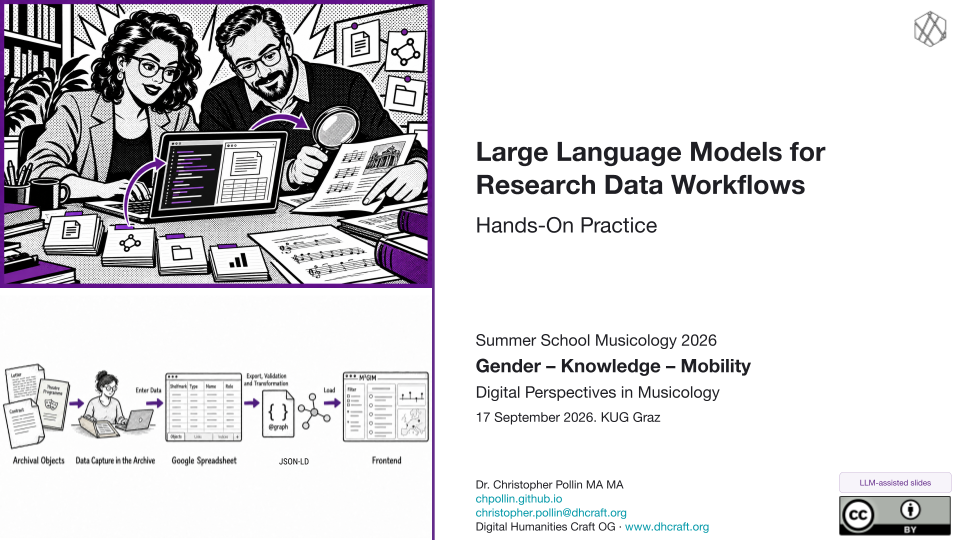
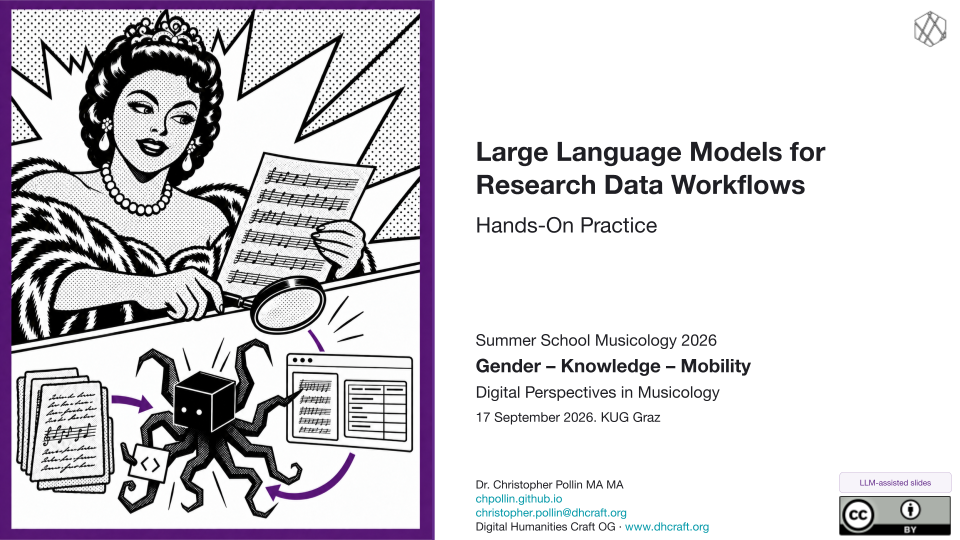
Sessionstruktur vereinfachen und Opernsaengerin als Bildmotiv verwenden

Changed region(s): [[0.0, 0.0, 0.4688, 1.0]]

diff --git a/index.html b/index.html
@@ -25,47 +25,31 @@
 <p class="byline">Christopher Pollin · Digital Humanities Craft · University of Music and Performing Arts Graz · 16 and 17 September 2026</p>
 <div class="actions"><a class="button" href="#sessions">Go to the sessions</a><a class="button secondary" href="#downloads">Downloads</a></div>
 </div>
-<section id="sessions"><h2 class="visually-hidden">Sessions</h2><div class="grid session-cards"><a class="card" href="#session-1"><img src="assets/slides/session-1.png" width="960" height="540" alt="" decoding="async"><span class="number">Session 1</span><span class="small">Wed 16 Sep · 17:00–19:00</span><h3>Making Estate Materials Digitally Accessible</h3><p>Archival sources and research data</p></a><a class="card" href="#session-2"><img src="assets/slides/session-2.png" width="960" height="540" alt="" decoding="async"><span class="number">Session 2</span><span class="small">Thu 17 Sep · 11:30–13:00</span><h3>Large Language Models for Research Data Workflows: An Introduction</h3><p>Models, prompts and context</p></a><a class="card" href="#session-3"><img src="assets/slides/session-3.png" width="960" height="540" alt="" decoding="async"><span class="number">Sessions 3 and 4</span><span class="small">Thu 17 Sep · 15:00–16:30 and 17:00–18:30</span><h3>Large Language Models for Research Data Workflows: Hands-On Practice</h3><p>Promptotyping · guided practice and independent work</p></a></div></section>
+<section id="sessions"><h2 class="visually-hidden">Sessions</h2><div class="grid session-cards"><a class="card" href="#session-1"><img src="assets/slides/session-1.png" width="960" height="540" alt="" decoding="async"><span>Session 1 · Archival sources</span></a><a class="card" href="#session-2"><img src="assets/slides/session-2.png" width="960" height="540" alt="" decoding="async"><span>Session 2 · Large language models</span></a><a class="card" href="#session-3"><img src="assets/slides/session-3.png" width="960" height="540" alt="" decoding="async"><span>Sessions 3 and 4 · Promptotyping</span></a></div></section>
 <section id="session-1" class="session">
-<p class="eyebrow">Session 1 · Wednesday 16 September · 17:00–19:00</p>
-<h2>Making Estate Materials Digitally Accessible</h2>
-<p class="lead">Follow an archival object from digitisation through catalogue description to digital access, using Stefan Zweig Digital.</p>
-
-<div class="actions"><a class="button" href="https://docs.google.com/presentation/d/1vMd2UfI9MydUEN6MMOYT0LZcJ6MYv2DmK9AQbyzJ7xc/preview">Open slides</a><a class="button secondary" href="https://docs.google.com/presentation/d/1vMd2UfI9MydUEN6MMOYT0LZcJ6MYv2DmK9AQbyzJ7xc/export/pdf">Slides PDF</a><a class="button" href="https://docs.google.com/document/d/1DU6UbE4xURFZ3fkPn7MD2loZ2naPysFYX1ypeI0D_Kg/preview">Lecture notes</a><a class="button secondary" href="https://docs.google.com/document/d/1DU6UbE4xURFZ3fkPn7MD2loZ2naPysFYX1ypeI0D_Kg/export?format=pdf">Notes PDF</a></div>
-<details class="slides-embed"><summary>Show the slides on this page</summary><iframe class="embed slides" src="https://docs.google.com/presentation/d/1vMd2UfI9MydUEN6MMOYT0LZcJ6MYv2DmK9AQbyzJ7xc/embed?start=false&amp;loop=false&amp;delayms=3000" title="Session 1 slides" allowfullscreen loading="lazy"></iframe></details>
-<div class="panel"><h3>From XML to IIIF</h3><p>Combine your XML metadata and images, generate a manifest with Python, and inspect the result in Mirador. The viewer also accepts the XML directly.</p><div class="actions"><a class="button" href="tools/iiif-viewer/">Open the IIIF viewer</a><a class="button secondary" href="downloads/xml-iiif-workshop.zip">Download Python + IIIF package</a></div><p class="small">Script, XML template, two synthetic example images and an English guide.</p></div>
-<ul class="resources"><li><a href="downloads/pdf-to-images.zip">PDF to images · Python exercise package</a><br><span class="small">Script, two-page source PDF and instructions.</span></li><li><a href="downloads/shared/schulnachricht.jpg">Schulnachricht · source image</a></li></ul>
+<h2>Session 1 · Archival sources</h2>
+<p class="material-links"><a href="https://docs.google.com/presentation/d/1vMd2UfI9MydUEN6MMOYT0LZcJ6MYv2DmK9AQbyzJ7xc/preview">Slides</a> · <a href="https://docs.google.com/presentation/d/1vMd2UfI9MydUEN6MMOYT0LZcJ6MYv2DmK9AQbyzJ7xc/export/pdf">Slides PDF</a> · <a href="https://docs.google.com/document/d/1DU6UbE4xURFZ3fkPn7MD2loZ2naPysFYX1ypeI0D_Kg/preview">Lecture notes</a> · <a href="https://docs.google.com/document/d/1DU6UbE4xURFZ3fkPn7MD2loZ2naPysFYX1ypeI0D_Kg/export?format=pdf">Notes PDF</a></p>
+<p>Combine XML metadata and images, generate a manifest with Python, and inspect the result in Mirador. The <a href="tools/iiif-viewer/">IIIF viewer</a> also accepts the XML directly. The <a href="downloads/xml-iiif-workshop.zip">Python + IIIF package</a> contains the script, XML template, two synthetic example images and a guide.</p>
+<ul class="resources"><li><a href="downloads/pdf-to-images.zip">PDF to images · Python exercise package</a><br>Script, two-page source PDF and instructions.</li><li><a href="downloads/shared/schulnachricht.jpg">Schulnachricht · source image</a></li></ul>
 </section>
 <section id="session-2" class="session">
-<p class="eyebrow">Session 2 · Thursday 17 September · 11:30–13:00</p>
-<h2>Large Language Models for Research Data Workflows: An Introduction</h2>
-<p class="lead">How large language models work, and how prompt and context engineering support transcription, metadata and the checking of generated results.</p>
-
-<div class="actions"><a class="button" href="https://docs.google.com/presentation/d/1GUzZEVdCq2gRphzXIsnZ1Gg_4bGdqYy_aiwl8kErJUc/preview">Open slides</a><a class="button secondary" href="https://docs.google.com/presentation/d/1GUzZEVdCq2gRphzXIsnZ1Gg_4bGdqYy_aiwl8kErJUc/export/pdf">Slides PDF</a><a class="button" href="https://docs.google.com/document/d/18DUWW5ju8R827mf7LNPU_zSoxd2R8WF8ienI8fCcFrM/preview">Lecture notes</a><a class="button secondary" href="https://docs.google.com/document/d/18DUWW5ju8R827mf7LNPU_zSoxd2R8WF8ienI8fCcFrM/export?format=pdf">Notes PDF</a></div>
-<details class="slides-embed"><summary>Show the slides on this page</summary><iframe class="embed slides" src="https://docs.google.com/presentation/d/1GUzZEVdCq2gRphzXIsnZ1Gg_4bGdqYy_aiwl8kErJUc/embed?start=false&amp;loop=false&amp;delayms=3000" title="Session 2 slides" allowfullscreen loading="lazy"></iframe></details>
-<div class="panel"><p class="eyebrow">Session 2 · Extended hands-on</p><h3>From Facsimiles to TEI</h3><p>Create complete transcriptions, extract document metadata and combine both in simple TEI-XML. Work through seven documents with 40 scan pages and keep the images linked for Session 3.</p><div class="actions"><a class="button" href="materials/m3gim-fulltext.html">Open the exercise &amp; downloads</a></div><p class="small">PDFs, PNGs, prompts, a TEI template, a local checker and complete reference files.</p></div>
+<h2>Session 2 · Large language models</h2>
+<p class="material-links"><a href="https://docs.google.com/presentation/d/1GUzZEVdCq2gRphzXIsnZ1Gg_4bGdqYy_aiwl8kErJUc/preview">Slides</a> · <a href="https://docs.google.com/presentation/d/1GUzZEVdCq2gRphzXIsnZ1Gg_4bGdqYy_aiwl8kErJUc/export/pdf">Slides PDF</a> · <a href="https://docs.google.com/document/d/18DUWW5ju8R827mf7LNPU_zSoxd2R8WF8ienI8fCcFrM/preview">Lecture notes</a> · <a href="https://docs.google.com/document/d/18DUWW5ju8R827mf7LNPU_zSoxd2R8WF8ienI8fCcFrM/export?format=pdf">Notes PDF</a></p>
+<p>Transcribe seven documents with 40 scan pages, extract metadata and combine the checked results in TEI-XML. The <a href="materials/m3gim-fulltext.html">M³GIM exercise and downloads</a> provides the source images, prompts, TEI template, checker and reference files. Keep your TEI files and images together for the tool-building exercise in Session 3.</p>
 <ul class="resources"><li><a href="https://docs.google.com/presentation/d/19zybf1mABP3qM65GXv0xEGVososbhM03P9_INInYPj8/preview">Technical preparation slides</a></li></ul>
 </section>
 <section id="session-3" class="session">
-<p class="eyebrow">Sessions 3 and 4 · Thursday 17 September · 15:00–16:30 and 17:00–18:30</p>
-<h2>Large Language Models for Research Data Workflows: Hands-On Practice</h2>
-<p class="lead">Use LLMs for coding and build small research tools through Promptotyping.</p>
-<div class="grid"><article class="panel"><h3>Session 3 · Guided hands-on · 15:00–16:30</h3><p>Run the supplied PDF-to-PNG workflow yourself, repeat it with an agent, then use LLMs for coding a small research tool. Document requirements and check each result together.</p></article><article class="panel" id="session-4"><h3>Session 4 · Independent work · 17:00–18:30</h3><p>Continue from the guided exercise with a research requirement of your choice. Maintain the project knowledge, select the context for each task and use the agent to implement and check your changes.</p></article></div><p class="small">Both sessions use the same slide deck and lecture notes.</p>
-<div class="actions"><a class="button" href="https://docs.google.com/presentation/d/1IOCdHFnlxyNuMwiyUNviyQ53KwD13k4_tRXpieXHgOo/preview">Open slides</a><a class="button secondary" href="https://docs.google.com/presentation/d/1IOCdHFnlxyNuMwiyUNviyQ53KwD13k4_tRXpieXHgOo/export/pdf">Slides PDF</a><a class="button" href="https://docs.google.com/document/d/138Kl6CCtpZI3BM6VHGEgpFuZPVZJTfJT5FH8ASIdHPA/preview">Lecture notes</a><a class="button secondary" href="https://docs.google.com/document/d/138Kl6CCtpZI3BM6VHGEgpFuZPVZJTfJT5FH8ASIdHPA/export?format=pdf">Notes PDF</a></div>
-<details class="slides-embed"><summary>Show the slides on this page</summary><iframe class="embed slides" src="https://docs.google.com/presentation/d/1IOCdHFnlxyNuMwiyUNviyQ53KwD13k4_tRXpieXHgOo/embed?start=false&amp;loop=false&amp;delayms=3000" title="Sessions 3 and 4 slides" allowfullscreen loading="lazy"></iframe></details>
-<div class="panel">
-<h3>From running a workflow to building a research tool</h3>
-<p>We return to PDF-to-PNG conversion to compare how you and an agent execute the same task. The TEI corpus from Session 2 becomes input for the tool-building exercise in step 3.</p>
+<h2>Sessions 3 and 4 · Promptotyping</h2>
+<p class="material-links"><a href="https://docs.google.com/presentation/d/1IOCdHFnlxyNuMwiyUNviyQ53KwD13k4_tRXpieXHgOo/preview">Slides</a> · <a href="https://docs.google.com/presentation/d/1IOCdHFnlxyNuMwiyUNviyQ53KwD13k4_tRXpieXHgOo/export/pdf">Slides PDF</a> · <a href="https://docs.google.com/document/d/138Kl6CCtpZI3BM6VHGEgpFuZPVZJTfJT5FH8ASIdHPA/preview">Lecture notes</a> · <a href="https://docs.google.com/document/d/138Kl6CCtpZI3BM6VHGEgpFuZPVZJTfJT5FH8ASIdHPA/export?format=pdf">Notes PDF</a></p>
+<p>Use LLMs for coding and build small research tools through Promptotyping.</p>
+<p>Session 3 guides you through the first three steps. We return to PDF-to-PNG conversion to compare how you and an agent execute the same task, then reuse the TEI corpus from Session 2 for tool building.</p>
 <ol class="workflow">
 <li><strong>Run the workflow yourself.</strong> Open the first package in Visual Studio Code, follow its guide and run the supplied script. Inspect the generated images against the PDFs.<br><a href="downloads/python-vscode.zip">Hands-on 1 · Python in Visual Studio Code · ZIP</a></li>
-<li><strong>Repeat the workflow with an agent.</strong> Give the agent the same task, script and PDFs. Observe its tool use, inspect the outputs and compare them with your first run.<br><a href="downloads/ai-harness.zip">Hands-on 2 · AI Harness · ZIP</a></li>
-<li><strong>Use LLMs for coding through Promptotyping.</strong> State a research requirement and record the relevant data, constraints and checks. Reuse your TEI files and images from Session 2 to implement and inspect a first tool together. A source viewer is the worked example.<br><a href="materials/m3gim-fulltext.html#next-session">TEI corpus layout &amp; reference bundle</a></li>
-<li><strong>Continue independently in Session 4.</strong> Choose a requirement for your own research tool or extend the guided example. Supply the relevant context, inspect the agent’s changes and verify the result against the data. Record what works and what remains uncertain.</li>
+<li><strong>Repeat the workflow with an agent.</strong> Give the agent the same task, script and PDFs. Compare the outputs with your first run. Practise Agentic Engineering by inspecting its tool use and results and providing feedback.<br><a href="downloads/ai-harness.zip">Hands-on 2 · AI Harness · ZIP</a></li>
+<li><strong>Build a small research tool.</strong> Reuse your TEI files and images from Session 2 to implement and inspect a first tool together. A source viewer is the worked example. Maintain the requirements, data description and checks as project knowledge (Knowledge Engineering), and select the relevant context for each task (Context Engineering).<br><a href="materials/m3gim-fulltext.html#next-session">TEI corpus layout &amp; reference bundle</a></li>
+<li id="session-4"><strong>Continue independently in Session 4.</strong> Choose a requirement for your own research tool or extend the guided example. Supply the relevant context, inspect the agent’s changes and verify the result against the data. Record what works and what remains uncertain.</li>
 </ol>
-<p class="small">Both hands-on ZIPs contain their guide, the supplied Python script and all seven input PDFs. Keep your Session 2 <code>tei/</code> and <code>png/</code> folders together so the image links remain usable.</p>
-<h3>Practices used throughout</h3>
-<dl class="practices"><dt>Knowledge Engineering</dt><dd>Maintain project knowledge about the research purpose, data, requirements, decisions and checks.</dd><dt>Context Engineering</dt><dd>Select the instructions, source material and project knowledge needed for the current task.</dd><dt>Agentic Engineering</dt><dd>Guide the agent’s tool use, inspect its actions and results, and provide feedback for the next change.</dd></dl>
-</div>
+<p>Both hands-on ZIPs contain their guide, the supplied Python script and all seven input PDFs. Keep your Session 2 <code>tei/</code> and <code>png/</code> folders together so the image links remain usable.</p>
 
 </section>
 <section id="downloads">

diff --git a/assets/site.css b/assets/site.css
@@ -93,8 +93,8 @@
   .card h3 { margin-block: 0; }
   .card p { margin-block: 0; color: var(--muted); }
   .session-cards .card { padding: var(--space-4); gap: var(--space-2); }
-  .session-cards h3 { font-size: 1.125rem; text-wrap: pretty; }
-  .session-cards .card p { font-size: var(--text-s); }
+  .session-cards .card span { font-weight: 650; }
+  .material-links a { display: inline-block; padding-block: var(--space-1); font-weight: 600; }
   .panel { background: var(--tint); padding: var(--space-5); border-radius: var(--radius); margin-block: var(--space-4); }
   .actions { display: flex; flex-wrap: wrap; gap: var(--space-3); margin-block: var(--space-4); }
   .button { display: inline-block; padding: 0.625rem 1.125rem; border-radius: 7px; background: var(--accent); color: var(--surface); text-decoration: none; font-size: 0.9375rem; font-weight: 650; border: 1px solid var(--accent); cursor: pointer; }
@@ -108,9 +108,6 @@
   .workflow { max-inline-size: 56rem; padding-inline-start: 1.4em; }
   .workflow li { margin-block-end: var(--space-4); padding-inline-start: var(--space-1); }
   .workflow-line { color: var(--accent); font-weight: 650; }
-  .practices { margin-block: var(--space-4) 0; max-inline-size: 56rem; }
-  .practices dt { font-weight: 650; }
-  .practices dd { margin-inline-start: 0; margin-block: 0 var(--space-3); }
   .metadata-table { inline-size: 100%; border-collapse: collapse; text-align: start; font-size: 0.9375rem; }
   .metadata-table th, .metadata-table td { padding: var(--space-3); border-block-end: 1px solid var(--line); vertical-align: top; }
   .metadata-table thead { background: var(--tint); }

diff --git a/knowledge/specification.md b/knowledge/specification.md
@@ -21,7 +21,7 @@ The site is one course page with the session overview, one section per session a
 
 ## Pages
 
-The course page opens with the event, the two days and the venue, followed by a card grid in which each session appears with the image of its title slide, its day and time, its title and a one-line subtitle. Each card links to the session section below. A session section carries day and time, title, a one-sentence description, buttons for the slides, the slides PDF, the lecture notes and the notes PDF, a collapsed disclosure that embeds the slides only when opened, an optional panel for the session's hands-on, and the session's resource links. The downloads section lists the files kept in the repository and the shared Drive folders once.
+The course page opens with the event, dates and venue, followed by title-slide images with one concise caption each. Each image links to its session below. Every session has one heading, a plain row of slide and notes links including PDF exports, then ordinary exercise text and material links. Session times, separate date labels, nested cards and slide embeds are omitted. The downloads section groups starter packages, reference solutions and additional material.
 
 The M³GIM exercise page is a long-form worksheet whose content comes from `scripts/m3gim-exercise.mjs` and the files under `downloads/m3gim-fulltext/`. The viewer page holds the file inputs, the Mirador container and three collapsed guides, and its element IDs are the contract with `tools/iiif-viewer/app.js`.
 
@@ -29,17 +29,17 @@ The M³GIM exercise page is a long-form worksheet whose content comes from `scri
 
 ## Generation
 
-`scripts/sessions.mjs` is the single source for the sessions, their Drive IDs, day, time, texts, hands-on panel and resources, together with the site and Drive constants. `scripts/build-site.mjs` renders all pages from it and from the two page modules, writes them into the repository and checks every local link and anchor. With `--check` it renders without writing, compares with the committed files and fails on drift or on a broken link. `scripts/fetch-title-slides.mjs` downloads the first slide of every deck as PNG into `assets/slides/` and fails when Google answers with anything but an image, which happens for a deck that is not shared with the link. `scripts/build-iiif-package.py` packs `downloads/xml-iiif-workshop.zip` from `tools/iiif-viewer/` with fixed timestamps so the archive only changes when a source file does. `scripts/build-m3gim-tei.py` builds the M³GIM archives.
+`scripts/sessions.mjs` is the single source for the sessions, their Drive IDs, concise titles, exercise texts and resources, together with the site and Drive constants. `scripts/build-site.mjs` renders all pages from it and from the two page modules, writes them into the repository and checks every local link and anchor. With `--check` it renders without writing, compares with the committed files and fails on drift or on a broken link. `scripts/fetch-title-slides.mjs` downloads the first slide of every deck as PNG into `assets/slides/` and fails when Google answers with anything but an image, which happens for a deck that is not shared with the link. `scripts/build-iiif-package.py` packs `downloads/xml-iiif-workshop.zip` from `tools/iiif-viewer/` with fixed timestamps so the archive only changes when a source file does. `scripts/build-m3gim-tei.py` builds the M³GIM archives.
 
 Adding, merging or removing a session is an edit of the array in `scripts/sessions.mjs`, followed by the title-slide fetch and the build. No page text states the number of sessions.
 
-Sessions 3 and 4 share the existing deck `1IOCdHFnlxyNuMwiyUNviyQ53KwD13k4_tRXpieXHgOo` and lecture notes `138Kl6CCtpZI3BM6VHGEgpFuZPVZJTfJT5FH8ASIdHPA`. One course section shows the two original time blocks. Session 3 provides cumulative guided practice and Session 4 continues with independent work. Their main objective is to use LLMs for coding and build small research tools through Promptotyping, supported by Knowledge Engineering, Context Engineering and Agentic Engineering. The source viewer is an exercise example. The old Session 4 URL and page anchor remain usable.
+Sessions 3 and 4 share the existing deck `1IOCdHFnlxyNuMwiyUNviyQ53KwD13k4_tRXpieXHgOo` and lecture notes `138Kl6CCtpZI3BM6VHGEgpFuZPVZJTfJT5FH8ASIdHPA`. One course section contains the shared materials and guided-to-independent exercise sequence. Session 3 provides cumulative guided practice and Session 4 continues with independent work. Their main objective is to use LLMs for coding and build small research tools through Promptotyping, supported by Knowledge Engineering, Context Engineering and Agentic Engineering. The source viewer is an exercise example. The old Session 4 URL and page anchor remain usable.
 
 Stored files from the Drive exercise folders are mirrored as direct downloads, with provenance in `downloads/drive-materials.json`. The two hands-on ZIPs each include their updated guide, unchanged script and all seven input PDFs. The guides are synchronised with their original Drive file IDs. Additional source material remains individually downloadable and bundled. Native Slides and Docs continue to use live links and export links.
 
 The guided sequence first executes the supplied PDF-to-PNG script manually, repeats this operation with an agent, then introduces LLM coding through Promptotyping. The third step reuses the TEI files and images from Session 2 for a source-viewer example. Session 4 allows participants to extend that example or implement another research requirement. The website and common lecture notes express the same sequence. Downloads are grouped into exercise starters, reference solutions and additional materials.
 
-The overview uses a dedicated compact card grid, with three equal columns when space permits. The existing Session 2 and Sessions 3 and 4 title slides contain generated illustrations whose source assets and prompts are preserved under `assets/illustrations/`. Existing slide objects are retained. The previous Session 4 deck and reader remain in the sibling Drive folder `1HqmFO4TNbQmGIH8JBFc_Ua780GcYqaxV`; course-folder files have consistent session and material labels.
+The overview uses a dedicated compact card grid, with three equal columns when space permits. The existing Session 2 and Sessions 3 and 4 title slides contain generated illustrations whose source assets and prompts are preserved under `assets/illustrations/`. Native title text and metadata remain unchanged. The opera singer from Session 1 is the only human figure in each replacement, with the conceptual workflow below. An opaque cube-headed tentacle figure represents the model. Session 2 depicts text generation; Sessions 3 and 4 depict tool building with inspection and feedback. The former lower workflow graphic in Sessions 3 and 4 was replaced. The previous Session 4 deck and reader remain in the sibling Drive folder `1HqmFO4TNbQmGIH8JBFc_Ua780GcYqaxV`; course-folder files have consistent session and material labels.
 
 ## Design
 
@@ -53,7 +53,7 @@ Single page without a router. The sessions are short enough for one document wit
 
 Title slides as versioned images. Fetched once per deck change through the public export endpoint and committed, so the overview works in the seminar room without Google. Slide and notes PDFs are not versioned, because the decks change until shortly before the sessions and each export would add several megabytes to the history. A local export before the workshop covers the offline case.
 
-Slides embedded on demand. The embed iframe sits in a closed disclosure with lazy loading, so opening the page loads no deck, and the page keeps working when Google is unreachable, with the title images and the PDF links still in place.
+Direct slide links. Plain preview and PDF links provide access to the current deck without an additional embedded view on the course page. Versioned title images keep the overview independent of Google at page load.
 
 Lecture notes as links. The earlier embedded Google Docs preview was the heaviest element on every page and the likeliest to fail. A preview link and the PDF export replace it.
 

diff --git a/README.md b/README.md
@@ -16,9 +16,9 @@ Gemeinsame Lehrwebsite für Christophers vier Sessions am 16. und 17. September 
 
 ## Materialquellen
 
-Die Titel und IDs wurden am 15. September 2026 im Google-Drive-Kursordner abgeglichen. Session 1 und 2 haben eigene Decks und Skripten. Session 3 und 4 verwenden das bestehende gemeinsame Deck und das zusammengeführte Skript unter der bisherigen Session-3-Dokument-ID. Die bestehenden Zeitblöcke bleiben sichtbar. Session 3 führt eine aufbauende Übung an; Session 4 geht in selbständiges Arbeiten über. Das gemeinsame Hauptziel lautet „Use LLMs for coding and build small research tools through Promptotyping“. Knowledge Engineering, Context Engineering und Agentic Engineering bilden den begrifflichen Rahmen. Der Quellenviewer dient als Übungsbeispiel.
+Die Titel und IDs wurden am 15. September 2026 im Google-Drive-Kursordner abgeglichen. Session 1 und 2 haben eigene Decks und Skripten. Session 3 und 4 verwenden das bestehende gemeinsame Deck und das zusammengeführte Skript unter der bisherigen Session-3-Dokument-ID. Die Kursseite verwendet eine knappe Überschrift pro Session, direkte Materiallinks und flache Übungstexte. Uhrzeiten und separate Datumszeilen entfallen. Session 3 führt eine aufbauende Übung an; Session 4 geht in selbständiges Arbeiten über. Das gemeinsame Hauptziel lautet „Use LLMs for coding and build small research tools through Promptotyping“. Knowledge Engineering, Context Engineering und Agentic Engineering bilden den begrifflichen Rahmen. Der Quellenviewer dient als Übungsbeispiel.
 
-Google Drive bleibt der Bearbeitungsort der nativen Dokumente. Einbettungen und PDF-Exportlinks zeigen auf die aktuellen Google-Dokumente. Die Website verändert deren Freigaben nicht. Die gespeicherten Übungsdateien aus den Unterordnern liegen zusätzlich als direkte Downloads vor. `downloads/drive-materials.json` dokumentiert ihre Herkunft. Die Programm-PDFs aus beiden Hands-on-Ordnern wurden per SHA-256 mit den bestehenden lokalen PDFs verglichen und stimmen bytegenau überein.
+Google Drive bleibt der Bearbeitungsort der nativen Dokumente. Vorschau- und PDF-Exportlinks zeigen auf die aktuellen Google-Dokumente. Die Website verändert deren Freigaben nicht. Die gespeicherten Übungsdateien aus den Unterordnern liegen zusätzlich als direkte Downloads vor. `downloads/drive-materials.json` dokumentiert ihre Herkunft. Die Programm-PDFs aus beiden Hands-on-Ordnern wurden per SHA-256 mit den bestehenden lokalen PDFs verglichen und stimmen bytegenau überein.
 
 `downloads/python-vscode.zip` und `downloads/ai-harness.zip` enthalten jeweils Anleitung, unverändertes Python-Skript und die sieben PDFs im Unterordner `input/`. Die Anleitungen erläutern den Übergang von eigener Skriptausführung über die Ausführung durch einen Agenten zum Programmieren mit einem LLM. Sie sind in Drive und den ZIPs bytegleich. Der Konverter wurde mit allen sieben PDFs ausgeführt und erzeugte 40 PNG-Seiten ohne Fehler.
 

diff --git a/knowledge/journal.md b/knowledge/journal.md
@@ -17,6 +17,12 @@ related: [handoff, project, specification]
 
 Curated provenance index of the course website, read alongside `project.md` and `specification.md` for the current state and `handoff.md` for open handover points.
 
+## 2026-09-15 · korrigiert · Bildsprache und flache Sessionstruktur
+
+Der Nutzer verwarf die generischen Forschendenbilder und präzisierte die Bildsprache. Die Opernsängerin aus Session 1 ist in den beiden Ersatzbildern die einzige menschliche Figur. Der vorhandene schwarze Kubuskopf mit Tentakeln dient als Motiv für die opake Modellfunktion. Im unteren Bildbereich erscheinen Textgenerierung beziehungsweise Werkzeugbau mit Prüfung und Rückkopplung. Die vollständigen linken Bildspalten der bestehenden Titel wurden ersetzt; die frühere untere Grafik von Sessions 3 und 4 entfiel. Native Titeltexte und Metadaten sowie Folienbestand und Reihenfolge blieben erhalten. Referenzen, Generierung und Korrekturprompts liegen bei den v2-Bildern.
+
+Auf weitere Nutzerkorrektur wurde die Kursseite auf eine Überschrift pro Session reduziert. Uhrzeiten, separate Sessiondatumszeilen, Unterkarten, zusätzliche Vorspanntexte und Folieneinbettungen entfielen. Eine direkte Materialzeile führt zu Slides, Notes und PDF-Exporten. Das Hauptlernziel steht einmal im gewöhnlichen Übungstext. Die aufbauende Übung und der Anker für Session 4 bleiben erhalten. Build und lokale Links wurden geprüft, die neuen Titel und die flache Darstellung im Browser visuell kontrolliert.
+
 ## 2026-09-15 · integriert · Übungsfolge, Titelbilder und Materialzugang
 
 Auf Nutzerauftrag wurden Website, gemeinsame Lecture Notes und Hands-on-Anleitungen auf dieselbe Übungsfolge abgestimmt. Eigene Skriptausführung und Agentenausführung bereiten den Bau eines kleinen Forschungswerkzeugs durch Promptotyping vor. Session 4 führt die Arbeit mit einer selbstgewählten Forschungsanforderung fort. Der vorhandene Abschnitt 1.2 mit Quellenanmerkungen [8]–[12] sowie native Fußnoten und Dokumentchips blieben erhalten. Alle elf exportierten Notes-Seiten wurden visuell geprüft. Der Folienchip führt zum gemeinsamen Deck, zeigt jedoch weiterhin seinen von Google zwischengespeicherten früheren Titel.

diff --git a/knowledge/project.md b/knowledge/project.md
@@ -27,7 +27,7 @@ Participants of the summer school without assumed AI or coding background use th
 
 The slides and lecture notes live as Google Slides and Google Docs in the course folder on Google Drive, which remains the editing location. The site links their preview, embed and export addresses and keeps a copy of each deck's title slide as an image. Exercise files in the repository are the IIIF package derived from `tools/iiif-viewer/`, the PDF-to-images package taken from the teaching package maintained in the vault, and the M³GIM full-text and TEI package under `downloads/m3gim-fulltext/`, which derives from the Ira Malaniuk materials of the archive of the University of Music and Performing Arts Graz (UAKUG, collection NIM) used in the M³GIM project. The IIIF viewer displays images with Mirador, vendored under `tools/iiif-viewer/vendor/`.
 
-The schedule of the sessions comes from the workshop document in the vault. The room is announced by the organiser and does not appear on the site.
+The course dates appear once in the page introduction. Session times are omitted at the user's request. The room is announced by the organiser and does not appear on the site.
 
 ## Origin and licence
 
